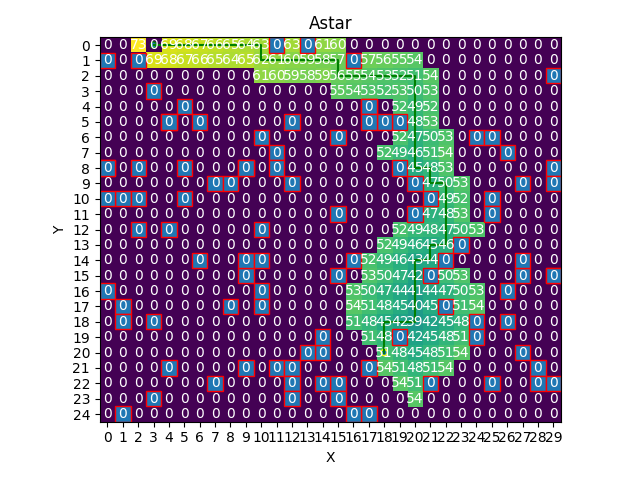
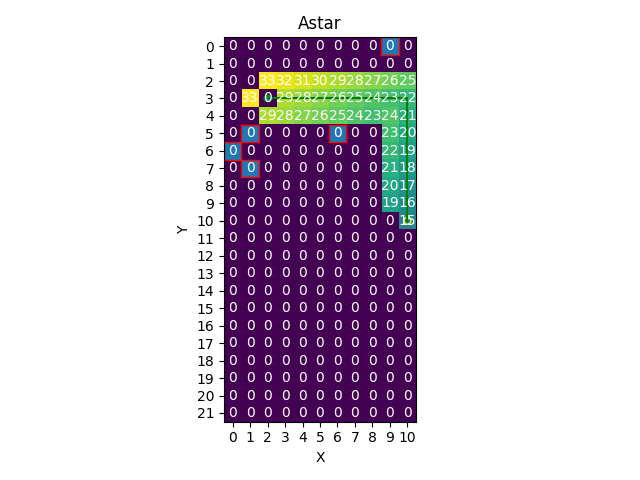
Add simple networking

diff --git a/astar.py b/astar.py
@@ -1,20 +1,7 @@
-from pole import Pole
-from plot import create_plot
 import numpy
 import random
-
-start_x = 0
-start_y = 3
-
-
-end_x = 20
-end_y = 18
-
-weight = 2
-
-map_size_x = 25
-map_size_y = 30
-number_of_obstacles = 100
+from pole import Pole
+from plot import create_plot
 
 
 def generate_list_random_obstacles(number_of_obstacles, map_size_x: int, map_size_y: int):
@@ -36,10 +23,11 @@ def generate_map(start_x: int, start_y: int, end_x: int, end_y: int, map_size_x:
     map[end_x][end_y] = -1
     for obstacles in list_of_obstacles:
         map[obstacles[1]][obstacles[0]] = 0
+
     return map
 
 
-def a_star_engine(global_object_table: list[list[Pole]], start_x, start_y, end_x, end_y):
+def a_star_engine(global_object_table: list[list[Pole]], start_x, start_y, end_x, end_y, weight):
 
     open_list = []
     closed_list = []
@@ -78,10 +66,34 @@ def a_star_engine(global_object_table: list[list[Pole]], start_x, start_y, end_x
     return success, currentNode
 
 
-if __name__ == "__main__":
+def generate_image(map_size_x, map_size_y, start_x, start_y, end_x, end_y, random, weight, number_of_obstacles):
 
     list_of_obstacles = generate_list_random_obstacles(number_of_obstacles, map_size_x, map_size_y)
     map = generate_map(start_x, start_y, end_x, end_y, map_size_x, map_size_y, list_of_obstacles)
     global_object_table = Pole.array_creation(map)
-    success, target = a_star_engine(global_object_table, start_x, start_y, end_x, end_y)
+    print(len(global_object_table))
+    success, target = a_star_engine(global_object_table, start_x, start_y, end_x, end_y, weight)
     create_plot(global_object_table, list_of_obstacles, success, target)
+
+
+if __name__ == "__main__":
+
+    map_size_x = 11
+    map_size_y = 11
+    start_x = 3
+    start_y = 2
+    end_x = 10
+    end_y = 10
+    weight = 2
+    number_of_obstacles = 5
+
+    list_of_obstacles = generate_list_random_obstacles(number_of_obstacles, map_size_x, map_size_y)
+    map = generate_map(start_x, start_y, end_x, end_y, map_size_x, map_size_y, list_of_obstacles)
+    global_object_table = Pole.array_creation(map)
+    print(id(global_object_table[1][1]._Pole__object_table))
+    print(id(global_object_table[2][2]._Pole__object_table))
+    print(id(global_object_table[1][1].right))
+    print(id(global_object_table[2][2].right))
+
+    # success, target = a_star_engine(global_object_table, start_x, start_y, end_x, end_y, weight)
+    # create_plot(global_object_table, list_of_obstacles, success, target)

diff --git a/api.py b/api.py
@@ -1,5 +1,7 @@
+import imp
 from fastapi import FastAPI
 from models import AStarParams
+from astar import generate_image
 
 
 app = FastAPI()
@@ -10,5 +12,10 @@ app = FastAPI()
 
 
 @app.post("/")
-async def root(aStarParams: AStarParams):
-    return {"message": f"{aStarParams}"}
+def root(aStarParams: AStarParams):
+
+    dict_of_parameters = dict([ele for ele in aStarParams])
+    print(dict_of_parameters)
+    generate_image(**dict_of_parameters)
+
+    return aStarParams

diff --git a/pole.py b/pole.py
@@ -1,3 +1,6 @@
+import copy
+
+
 class Pole:
     # this filds are for reference to neighbors
     up = None
@@ -61,7 +64,7 @@ class Pole:
             cls.__object_table.append(row___object_table)
         # after creation of a array of object calculate references to neighbors
         Pole.calculate_neighbors()
-        return cls.__object_table
+        return copy.deepcopy(cls.__object_table)
 
     @classmethod
     def calculate_neighbors(cls):

diff --git a/plot.py b/plot.py
@@ -54,4 +54,5 @@ def create_plot(object_table: list[list[Pole]], list_of_obstacles: list[list[int
     fig.tight_layout()
     plt.gcf()
     plt.savefig("plot1.png")
-    plt.show()
+    # plt.show()
+    # plt.close()
